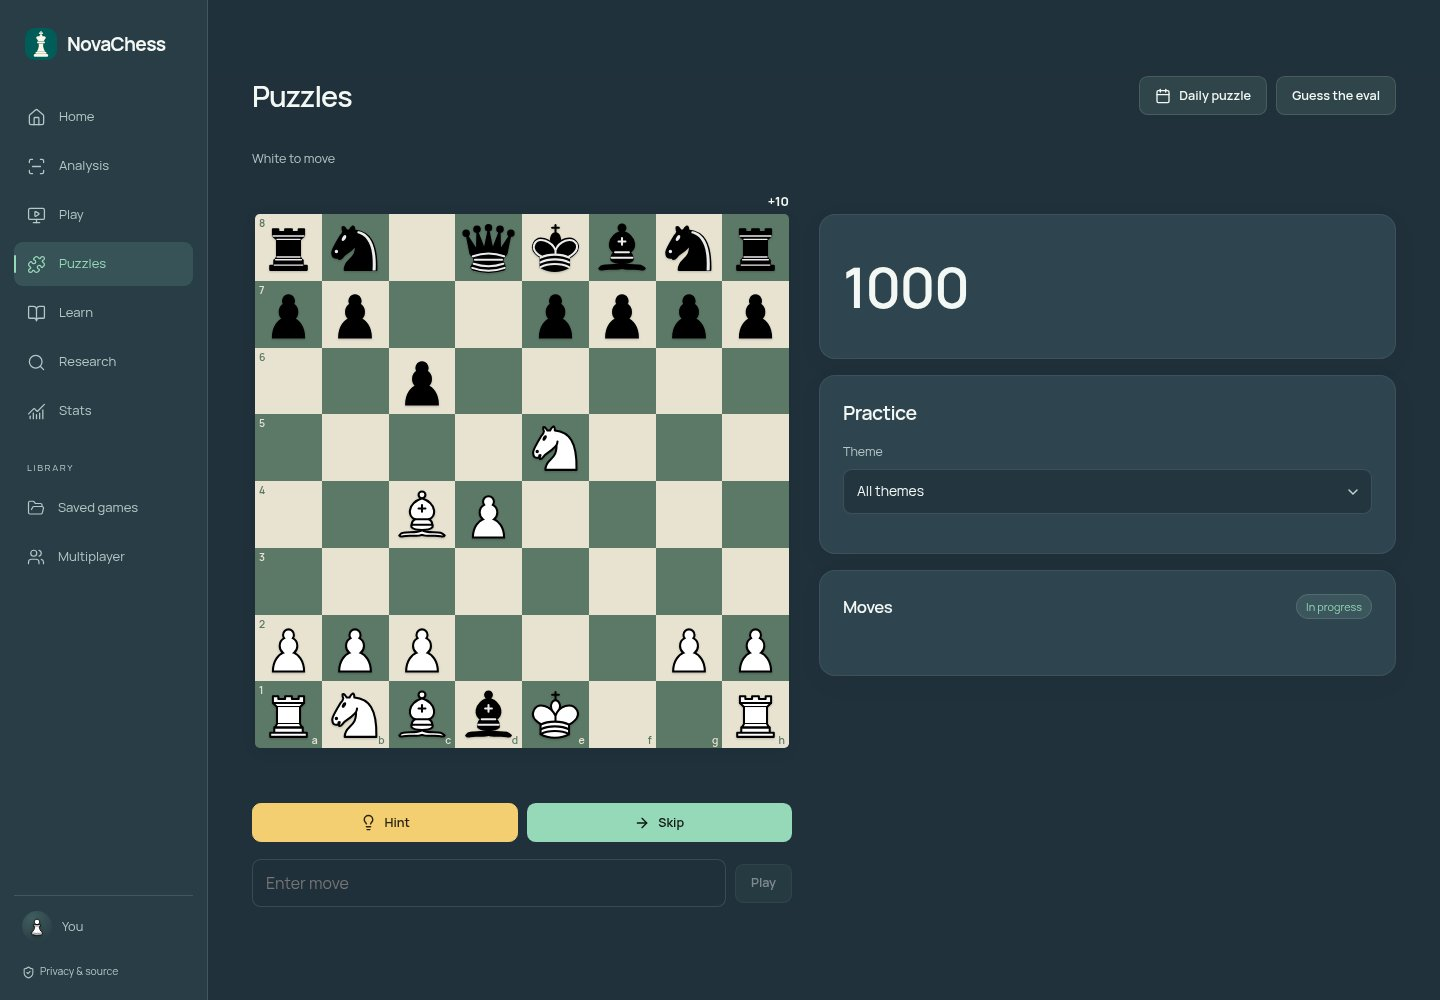
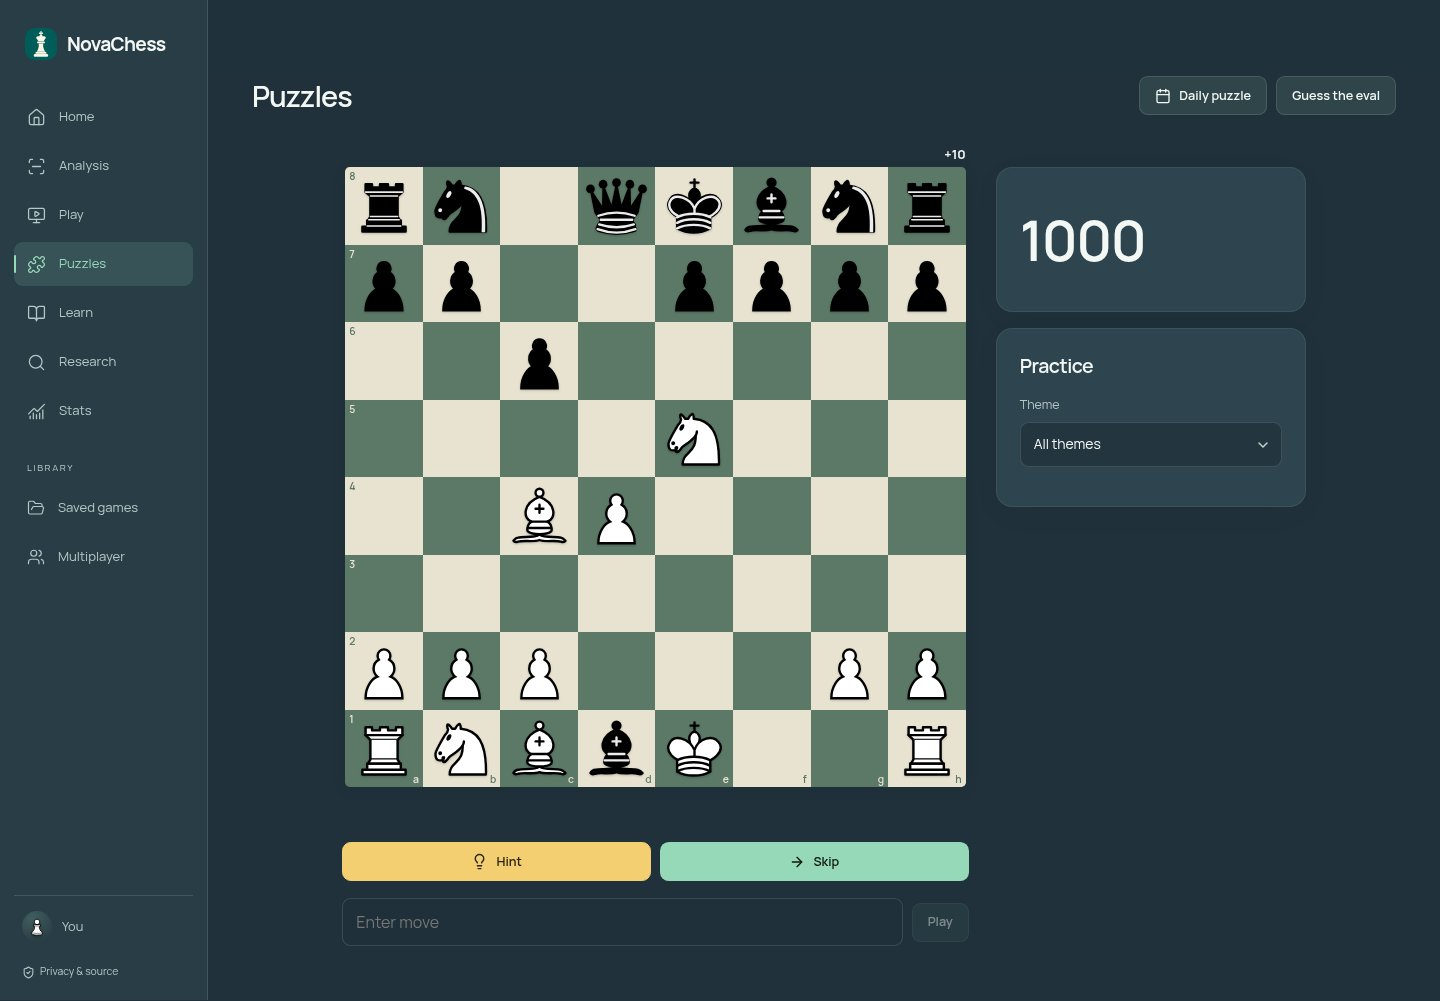
Streamline puzzles and illustrate quizzes with correct board orientation

diff --git a/tests/puzzle-quiz-refinements.spec.ts b/tests/puzzle-quiz-refinements.spec.ts
@@ -1,0 +1,126 @@
+import { test, expect } from "@playwright/test";
+import fs from "node:fs";
+import { Chess } from "chess.js";
+const squares = (page: any) =>
+  page
+    .getByRole("group", { name: "Chessboard", exact: true })
+    .first()
+    .locator(".board-square");
+
+test("puzzles hide turn/status text and move history until the first answer, with compact aligned panels", async ({
+  page,
+  isMobile,
+}) => {
+  const puzzles = JSON.parse(
+    fs.readFileSync("public/data/puzzles.json", "utf8"),
+  );
+  const puzzle = puzzles.find((p: any) => {
+    const c = new Chess(p.fen);
+    c.move(p.moves[0]);
+    return c.turn() === "b" && p.moves.length >= 4;
+  });
+  await page.route("**/data/puzzles.json", (r) =>
+    r.fulfill({ json: [puzzle] }),
+  );
+  await page.goto("/#puzzles");
+  const input = page.getByLabel("Puzzle move", { exact: true });
+  await expect(input).toBeVisible();
+  await expect(squares(page).last()).toHaveAttribute("aria-label", /^a8,/);
+  await expect(
+    page.getByText(/Black to move|White to move|In progress/),
+  ).toHaveCount(0);
+  await expect(
+    page.getByRole("heading", { name: "Moves", exact: true }),
+  ).toHaveCount(0);
+  if (!isMobile) {
+    const board = (await page.locator(".puzzle-board .board").boundingBox())!;
+    const panels = (await page
+      .locator(".puzzle-layout .side-panels")
+      .boundingBox())!;
+    expect(board.width).toBeGreaterThan(550);
+    expect(panels.width).toBeLessThanOrEqual(310);
+  }
+  const c = new Chess(puzzle.fen);
+  c.move(puzzle.moves[0]);
+  const answer = c.move(puzzle.moves[1]);
+  await input.fill(answer.san);
+  await input.press("Enter");
+  await expect(
+    page.getByRole("heading", { name: "Moves", exact: true }),
+  ).toBeVisible();
+  await expect(page.locator(".puzzle-moves")).toContainText(answer.san);
+  await expect(input).toBeFocused();
+});
+
+test("every quiz position faces its side to move and introductions/results have illustrations", async ({
+  page,
+}) => {
+  const scenarios = JSON.parse(
+    fs.readFileSync("public/data/personality.json", "utf8"),
+  );
+  await page.goto("/#learn/quizzes");
+  await expect(page.locator(".quiz-selection .quiz-picture")).toHaveCount(3);
+  await page.getByRole("button", { name: /Your chess style/ }).click();
+  for (const scenario of scenarios) {
+    await expect(squares(page).last()).toHaveAttribute(
+      "aria-label",
+      new RegExp(
+        "^" + (scenario.fen.split(" ")[1] === "b" ? "a8" : "h1") + ",",
+      ),
+    );
+    await page.locator(".quiz-moves>button").first().click();
+  }
+  await expect(page.locator(".quiz-result .quiz-picture")).toBeVisible();
+  await expect(page.locator(".quiz-result .quiz-picture")).toHaveCSS(
+    "background-image",
+    /quizzes\/illustrations\.webp/,
+  );
+  expect(
+    (await page.request.get("/quizzes/illustrations.webp")).ok(),
+  ).toBeTruthy();
+});
+
+test("black-to-move positions open correctly in Analysis, Guess the Eval and saved game previews", async ({
+  page,
+}) => {
+  const c = new Chess();
+  c.move("e4");
+  const fen = c.fen();
+  await page.goto("/#analysis/" + encodeURIComponent("fen:" + fen));
+  await expect(squares(page).last()).toHaveAttribute("aria-label", /^a8,/);
+  const puzzle = JSON.parse(
+    fs.readFileSync("public/data/puzzles.json", "utf8"),
+  ).find((p: any) => p.fen.split(" ")[1] === "b");
+  await page.route("**/data/puzzles.json", (r) =>
+    r.fulfill({ json: [puzzle] }),
+  );
+  await page.goto("/#puzzles/eval");
+  await expect(squares(page).last()).toHaveAttribute("aria-label", /^a8,/);
+  await page.evaluate(
+    (fen) =>
+      localStorage.setItem(
+        "novachess-library-v2",
+        JSON.stringify({
+          games: [
+            {
+              id: "black-start",
+              title: "Black to play",
+              created: Date.now(),
+              initial: fen,
+              variant: "chess",
+              moves: [],
+              notation: [],
+              positions: [fen],
+              result: "*",
+              human: "w",
+              folder: "Studies",
+            },
+          ],
+        }),
+      ),
+    fen,
+  );
+  await page.goto("/#library");
+  await page.reload();
+  await expect(squares(page).last()).toHaveAttribute("aria-label", /^a8,/);
+});

diff --git a/src/pages/learn/Playground.tsx b/src/pages/learn/Playground.tsx
@@ -1,17 +1,27 @@
 import { useState } from "react";
-import {
-  ArrowRight,
-  RotateCcw,
-  Check,
-  ArrowUpRight,
-  Brain,
-  Castle,
-  Sparkles,
-} from "lucide-react";
-import { useData } from "../../lib/store";
+import { ArrowRight, RotateCcw, Check, ArrowUpRight } from "lucide-react";
+import { base, useData } from "../../lib/store";
 import { useApp } from "../../lib/context";
 import { Board } from "../../components/Board";
 import { Button, Card, Loading } from "../../components/UI";
+function QuizPicture({
+  tile,
+  result = false,
+}: {
+  tile: number;
+  result?: boolean;
+}) {
+  return (
+    <span
+      aria-hidden="true"
+      className={`quiz-picture${result ? " quiz-picture-result" : ""}`}
+      style={{
+        backgroundImage: `url("${base}quizzes/illustrations.webp")`,
+        backgroundPosition: `${((tile % 4) * 100) / 3}% ${Math.floor(tile / 4) * 100}%`,
+      }}
+    />
+  );
+}
 type Question = {
   id: string;
   prompt: string;
@@ -70,7 +80,7 @@ function Trivia({ questions }: { questions: Question[] }) {
     <Card className="trivia-game">
       {done ? (
         <>
-          <Brain size={50} />
+          <QuizPicture tile={7} result />
           <h2>{score} points</h2>
           <p className="caption">Best: {library.progress.triviaBest || 0}</p>
           <Button
@@ -160,9 +170,9 @@ function Trivia({ questions }: { questions: Question[] }) {
   );
 }
 const quizzes = [
-  { id: "style", title: "Your chess style", icon: Brain },
-  { id: "princess", title: "Which Disney princess?", icon: Castle },
-  { id: "alter", title: "Your chess alter ego", icon: Sparkles },
+  { id: "style", title: "Your chess style", art: 0 },
+  { id: "princess", title: "Which Disney princess?", art: 1 },
+  { id: "alter", title: "Your chess alter ego", art: 2 },
 ];
 const results = {
   style: [
@@ -221,7 +231,7 @@ function Personality({ scenarios }: { scenarios: Scenario[] }) {
             key={q.id}
             onClick={() => setQuiz(q.id as keyof typeof results)}
           >
-            <q.icon size={40} />
+            <QuizPicture tile={q.art} />
             <h2>{q.title}</h2>
             <span className="caption">6 chess choices</span>
             <ArrowRight size={20} />
@@ -234,7 +244,7 @@ function Personality({ scenarios }: { scenarios: Scenario[] }) {
       [title, text] = results[quiz][index];
     return (
       <Card className="quiz-result">
-        <Sparkles size={48} />
+        <QuizPicture tile={[3, 4, 5, 6][index]} result />
         <span className="pill">For fun</span>
         <h2>{title}</h2>
         <p>{text}</p>
@@ -255,7 +265,7 @@ function Personality({ scenarios }: { scenarios: Scenario[] }) {
   return (
     <div className="chess-layout">
       <div className="board-column">
-        <Board fen={scenario.fen} disabled />
+        <Board key={scenario.fen} fen={scenario.fen} disabled />
       </div>
       <Card className="personality-question">
         <div className="game-score-row">

diff --git a/src/pages/Puzzles.tsx b/src/pages/Puzzles.tsx
@@ -265,16 +265,6 @@ function PuzzleTrainer({ puzzles }: { puzzles: PuzzleData[] }) {
         }
       >
         <div className="board-column">
-          <div className="board-topline">
-            <span className="turn-indicator">
-              <i className={learner === "w" ? "white-piece" : "black-piece"} />
-              {done
-                ? "Completed"
-                : c.turn() !== learner
-                  ? "Playing reply…"
-                  : `${learner === "w" ? "White" : "Black"} to move`}
-            </span>
-          </div>
           <div
             ref={puzzleBoardRef}
             className={`puzzle-board ${wrong ? "wrong" : ""} ${done ? "solved" : ""}`}
@@ -400,17 +390,18 @@ function PuzzleTrainer({ puzzles }: { puzzles: PuzzleData[] }) {
               </Field>
             </Card>
           )}
-          <Card>
-            <div className="card-heading">
-              <h2>Moves</h2>
-              <span className="pill">{done ? "Complete" : "In progress"}</span>
-            </div>
-            <div className="move-chips">
-              {played.map((m, i) => (
-                <span key={i}>{m}</span>
-              ))}
-            </div>
-          </Card>
+          {played.length > 0 && (
+            <Card className="puzzle-moves">
+              <div className="card-heading">
+                <h2>Moves</h2>
+              </div>
+              <div className="move-chips">
+                {played.map((m, i) => (
+                  <span key={i}>{m}</span>
+                ))}
+              </div>
+            </Card>
+          )}
         </div>
       </div>
     </>

diff --git a/src/pages/Analysis.tsx b/src/pages/Analysis.tsx
@@ -71,7 +71,13 @@ export default function Analysis() {
     [cursor, setCursor] = useState(
       detail.startsWith("fen:") ? 0 : (source?.positions.length || 1) - 1,
     ),
-    [flipped, setFlipped] = useState(false),
+    [flipped, setFlipped] = useState(
+      () =>
+        (detail.startsWith("fen:")
+          ? defaultFen
+          : source?.positions.at(-1) || defaultFen
+        ).split(" ")[1] === "b",
+    ),
     [editing, setEditing] = useState(false),
     [branches, setBranches] = useState<Line[]>(source?.branches || []),
     [name, setName] = useState(source?.title || "Analysis"),
@@ -153,6 +159,7 @@ export default function Analysis() {
   function reset(fen: string) {
     setInitial(fen);
     setPositions([fen]);
+    setFlipped(fen.split(" ")[1] === "b");
     setMoves([]);
     setNotation([]);
     setCursor(0);

diff --git a/src/redesign.css b/src/redesign.css
@@ -3852,3 +3852,33 @@ select.theme-select {
 .game-settings-card .opponent-choices label:has(input:checked) small {
   color: var(--text);
 }
+@media (min-width: 1001px) {
+  .puzzle-layout.chess-layout {
+    grid-template-columns: minmax(0, 1fr) minmax(260px, 310px);
+    max-width: calc(var(--board-max) * 1.16 + 337px);
+    margin-inline: auto;
+  }
+  .puzzle-layout > .board-column {
+    max-width: none;
+  }
+}
+.quiz-picture {
+  display: block;
+  width: min(100%, 240px);
+  aspect-ratio: 1;
+  align-self: center;
+  flex: none;
+  background-size: 400% 200%;
+  background-repeat: no-repeat;
+  border-radius: 18px;
+}
+.quiz-result .quiz-picture-result,
+.trivia-game .quiz-picture-result {
+  width: min(100%, 290px);
+}
+.quiz-selection > button {
+  gap: 16px;
+}
+.quiz-result .quiz-picture-result {
+  align-self: center;
+}

diff --git a/src/components/Board.tsx b/src/components/Board.tsx
@@ -43,7 +43,7 @@ export function Board({
   onMove,
   onSquare,
   legalMoves,
-  flipped: initialFlip = false,
+  flipped: preferredFlip,
   disabled = false,
   hidden = false,
   visible,
@@ -113,6 +113,9 @@ export function Board({
       pointerId: number;
     } | null>(null),
     suppressClick = useRef(false);
+  const [startingFlip] = useState(() => fen.split(" ")[1] === "b");
+  const initialFlip =
+    preferredFlip ?? (disabled ? fen.split(" ")[1] === "b" : startingFlip);
   const flipped = initialFlip !== flipOffset,
     cells = squares(fen),
     turn = fen.split(" ")[1],

diff --git a/src/pages/Library.tsx b/src/pages/Library.tsx
@@ -238,7 +238,7 @@ function GameViewer({
     [reviewing, setReviewing] = useState(false),
     [budget, setBudget] = useState(500),
     [status, setStatus] = useState(""),
-    [flipped, setFlipped] = useState(game.human === "b"),
+    [flipped, setFlipped] = useState(game.initial.split(" ")[1] === "b"),
     [title, setTitle] = useState(game.title);
   useControl("next", () =>
     setCursor((n) => Math.min(game.moves.length, n + 1)),

diff --git a/src/pages/learn/Openings.tsx b/src/pages/learn/Openings.tsx
@@ -666,7 +666,9 @@ function LessonWorkspace({
                       .forEach((m) => b.move(m));
                     return b.turn() === "b";
                   })()
-                : practice && side === "b"
+                : practice
+                  ? side === "b"
+                  : c.turn() === "b"
             }
             highlights={
               step

diff --git a/docs/VALIDATION.md b/docs/VALIDATION.md
@@ -1,8 +1,9 @@
 # Validation
 
-- TypeScript and Vite production build: passed. The offline cache contains 428 local assets.
-- Full desktop/mobile Chromium suite: 137 scenarios passed in one run; one desktop-only layout check is intentionally skipped on mobile.
+- TypeScript and Vite production build: passed. The offline cache contains 430 local assets.
+- Full desktop/mobile Chromium suite: 143 scenarios passed in one run; one desktop-only layout check is intentionally skipped on mobile.
 - Node rules/content/database/federation suite: all 34 tests passed.
+- Puzzle/quiz refinements check hidden empty move history, removed turn/status text, narrower aligned panels, side-to-move orientation across every quiz scenario plus Analysis, Guess the Eval and saved-game previews, and bundled introduction/result illustrations. Production desktop/mobile puzzle, quiz selection and quiz result screens passed accessibility checks without horizontal overflow.
 - Setup refinements check immediate center-grab dragging and edge drops, centered purple resume actions, compact strength choices, rated defaults, opening search, equal-height homepage cards and the larger Analysis board.
 - New coverage checks notation following/manual override, large evaluation and turn dots, concise position-specific insights, the homepage meme placement, retained puzzle input focus, rating-card alignment, configurable Stats periods, nested Rankings and federation profile input/lookup.
 - Positional explanations were checked against legal positions with real pins, passed pawns, open files, supported outposts, mating nets and engine-line pawn-structure changes. Federation parsing and the actual read-only Edge handler were checked with documented/representative responses, cache reuse and rejected arbitrary/private URLs.

diff --git a/public/quizzes/README.md b/public/quizzes/README.md
@@ -1,0 +1,8 @@
+# Quiz illustrations
+
+`illustrations.webp` is a four-column, two-row sheet of original chess cartoons.
+
+- Row 1: personality introduction, princess introduction, alter-ego introduction, attacker/tactician result.
+- Row 2: architect/cartographer result, technician/detective result, explorer result, trivia trophy.
+
+The three personality quizzes use the result illustration matching their winning archetype. All images are bundled for offline use.
